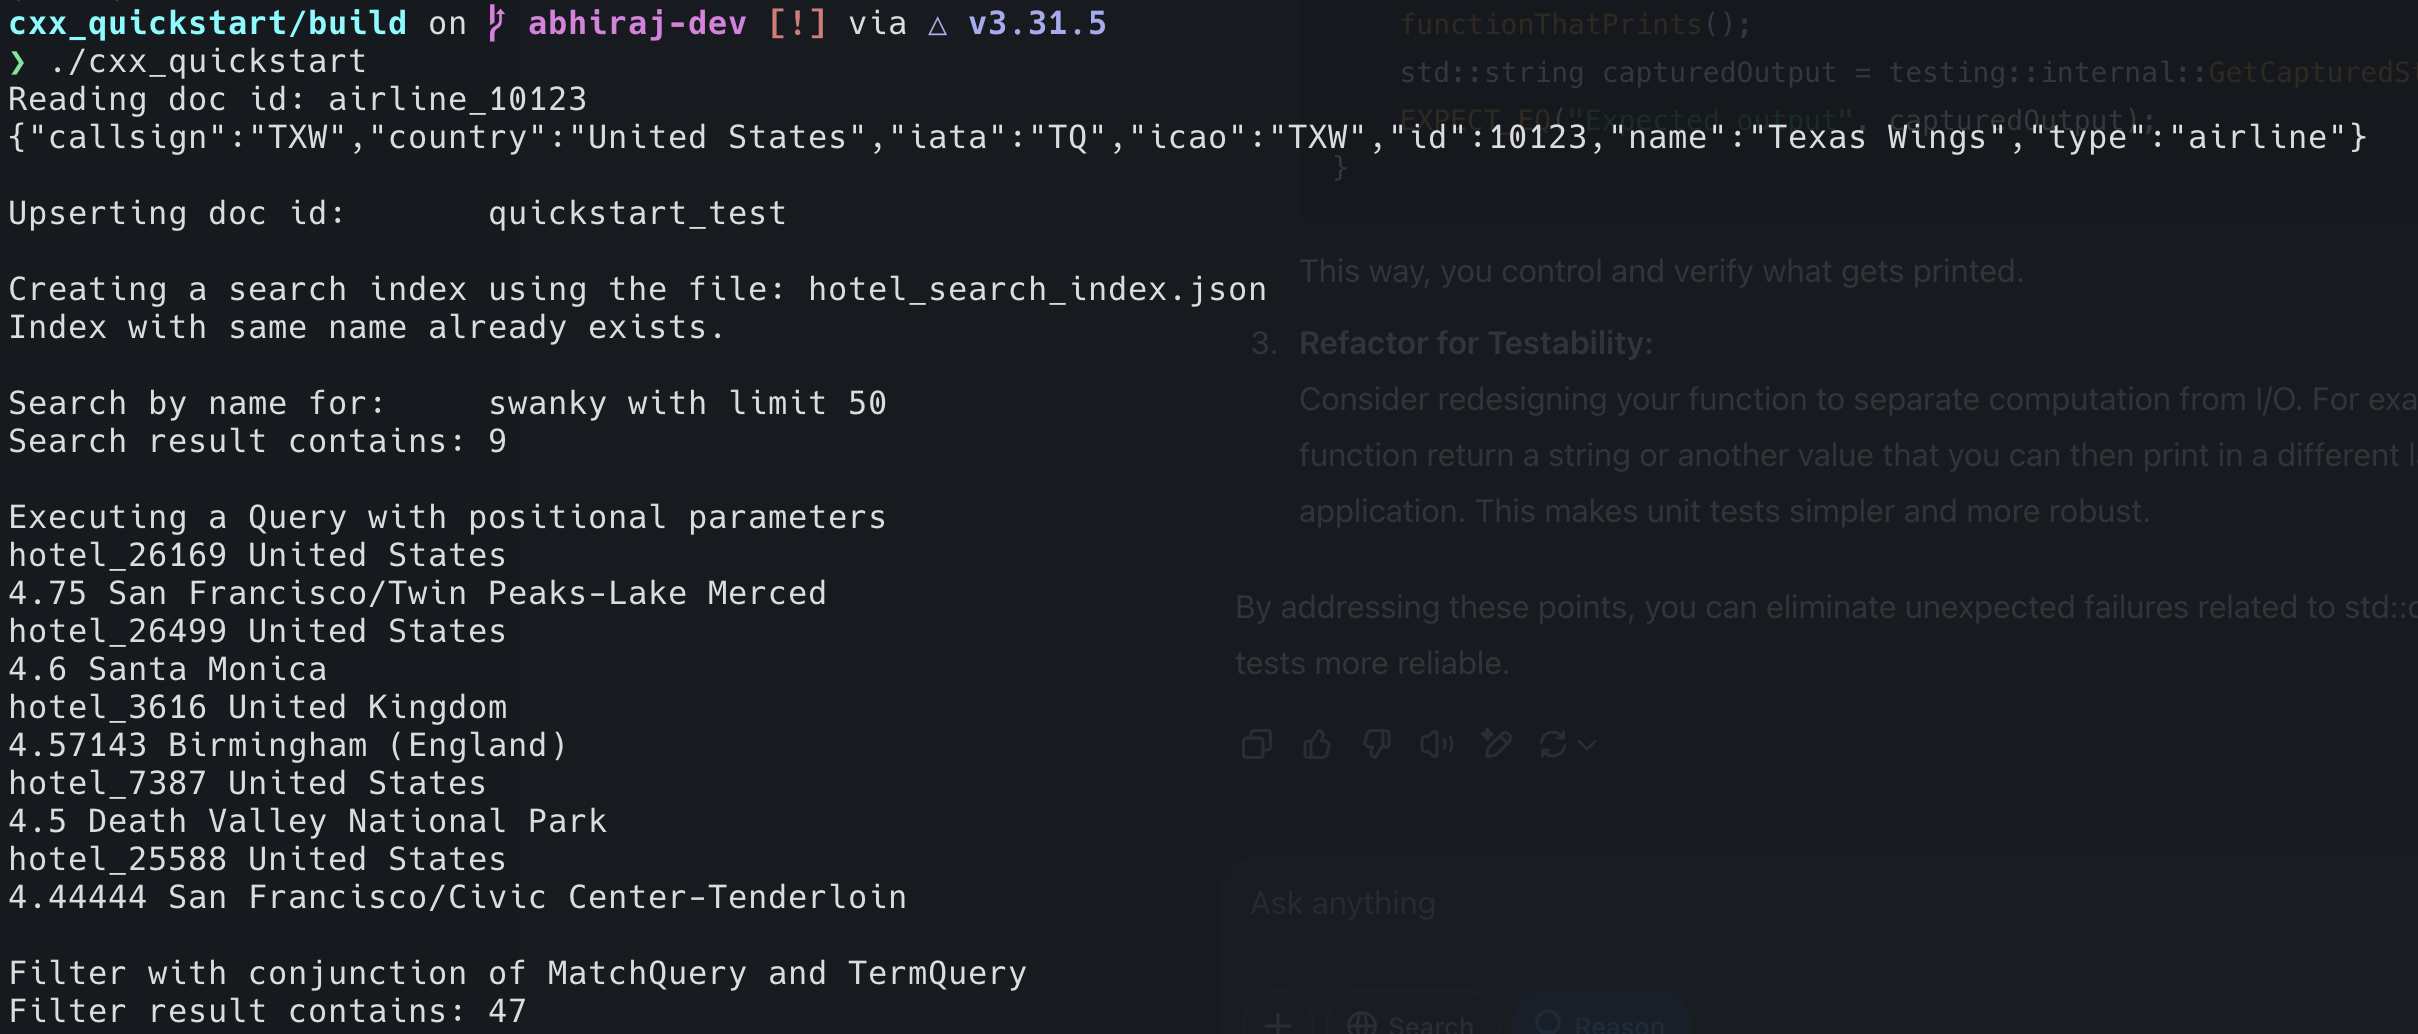
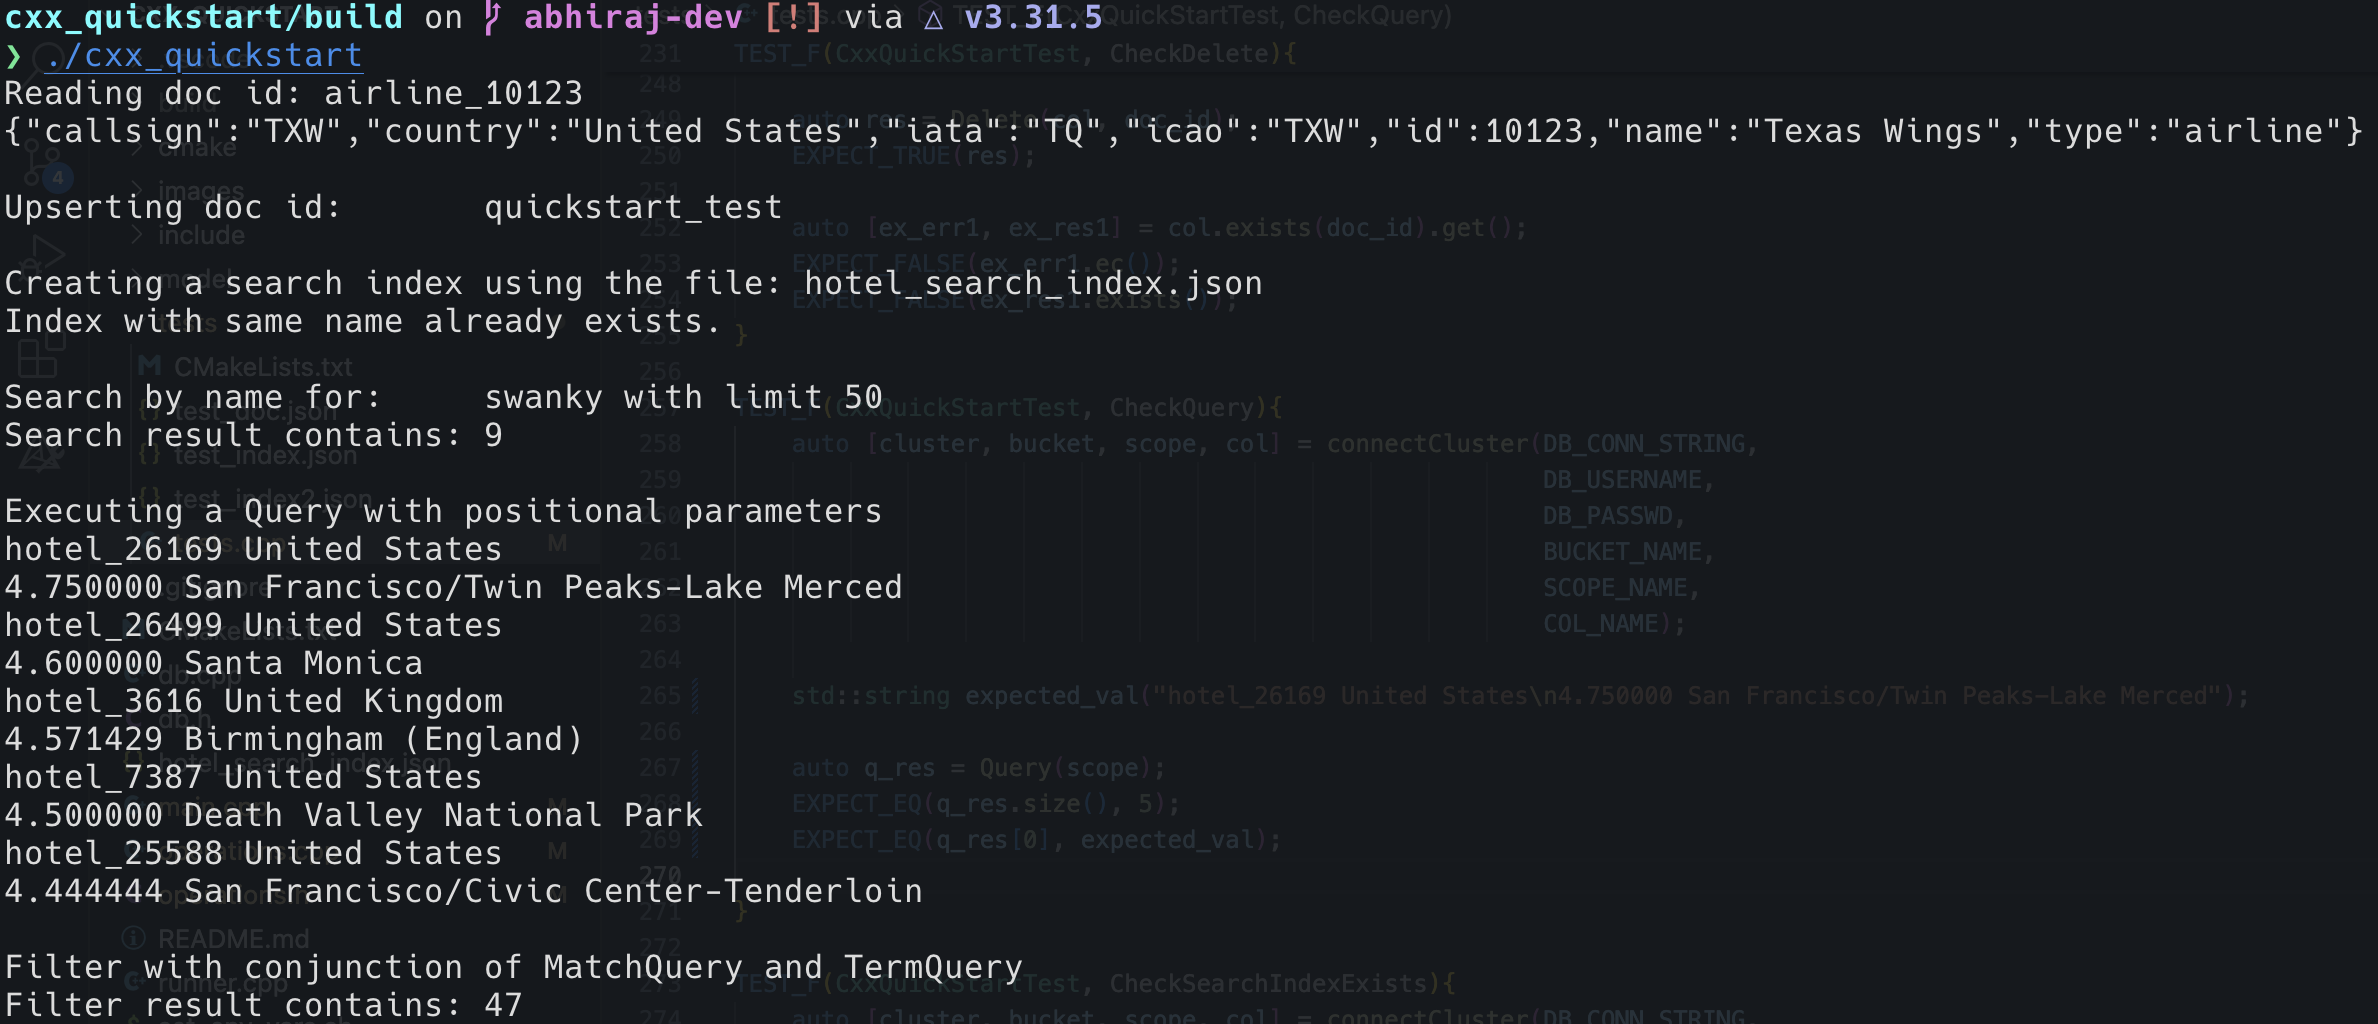
moved query string and reading to operations.cpp

diff --git a/operations.cpp b/operations.cpp
@@ -56,16 +56,29 @@ int Delete(couchbase::collection& col, const std::string& doc_id){
     return 1;
 }
 
-couchbase::query_result Query(couchbase::scope& scope, std::string& query, const couchbase::query_options& opts){
-    auto [q_err, q_res] = scope.query(query, opts).get();
+std::vector<std::string> Query(couchbase::scope& scope){
+    std::string query{ R"(        
+        SELECT META(h).id, h AS doc,
+               AVG(r.ratings.Overall) AS avg_rating
+        FROM hotel h
+        UNNEST h.reviews r
+        WHERE h.country IN $1 AND h.description LIKE "%cheap%"
+        GROUP BY META(h).id, h
+        ORDER BY avg_rating DESC
+        LIMIT 5;
+    )" };
+    
+    auto [q_err, q_res] = scope.query(query, couchbase::query_options{}.positional_parameters(std::vector<std::string>{"United States", "United Kingdom"})).get();
     if(q_err.ec()){
         std::cout << "Error executing query: " << q_err.message() << std::endl;
-        return couchbase::query_result{};
+        return std::vector<std::string>();
     }
-    
-
-    return q_res; 
-
+    std::vector<std::string> res;
+    auto v = q_res.rows_as<couchbase::codec::tao_json_serializer>();
+    for(auto x:v){
+        res.push_back(x["id"].as<std::string>() + " " + x["doc"]["country"].as<std::string>() + "\n" + std::to_string(x["avg_rating"].as<double>()) + " " + x["doc"]["title"].as<std::string>());
+    }
+    return res;
 }
 
 bool searchIndexExists(couchbase::scope_search_index_manager& sc_manager, const std::string& index_name){

diff --git a/main.cpp b/main.cpp
@@ -5,16 +5,7 @@ int main(){
     //Important to get all the vars since if it goes out of scope, it won't work.
     auto [cluster, bucket, scope, col] = InitCluster();
 
-    std::string query{ R"(        
-        SELECT META(h).id, h AS doc,
-               AVG(r.ratings.Overall) AS avg_rating
-        FROM hotel h
-        UNNEST h.reviews r
-        WHERE h.country IN $1 AND h.description LIKE "%cheap%"
-        GROUP BY META(h).id, h
-        ORDER BY avg_rating DESC
-        LIMIT 5;
-    )" };
+    
     
     
     // Reading a document
@@ -41,10 +32,9 @@ int main(){
     
     //Executing a query with positional Parameters
     std::cout << "Executing a Query with positional parameters" << std::endl;
-    auto query_res = Query(scope, query, couchbase::query_options{}.positional_parameters(std::vector<std::string>{"United States", "United Kingdom"}));
-    for (auto& row : query_res.rows_as()) {
-        std::cout  << row["id"].as<std::string>() << " " << row["doc"]["country"].as<std::string>() << std::endl;
-        std::cout << row["avg_rating"].as<double>() << " " << row["doc"]["title"].as<std::string>() <<  std::endl;
+    std::vector<std::string> query_res = Query(scope);
+    for (auto& row : query_res) {
+        std::cout << row << std::endl;
     }
     std::cout << std::endl;
     

diff --git a/tests/tests.cpp b/tests/tests.cpp
@@ -262,24 +262,11 @@ TEST_F(CxxQuickStartTest, CheckQuery){
                                                         SCOPE_NAME, 
                                                         COL_NAME);
 
-    std::string expected_json{R"({
-        "airline": {
-            "id": 18241,
-            "type": "airline",
-            "name": "Royal Airways",
-            "iata": "KG",
-            "icao": "RAW",
-            "callsign": "RAW",
-            "country": "United States"
-        }
-    })"};
+    std::string expected_val("hotel_26169 United States\n4.750000 San Francisco/Twin Peaks-Lake Merced");
 
-    auto v = tao::json::from_string(expected_json);
-    std::string query = {"SELECT * FROM `travel-sample`.inventory.airline WHERE name='Royal Airways' LIMIT 10"};
-    auto q_res = Query(scope, query);
-    auto rows = q_res.rows_as<couchbase::codec::tao_json_serializer>();
-    EXPECT_EQ(rows.size(), 1);
-    EXPECT_EQ(rows[0], v);
+    auto q_res = Query(scope);
+    EXPECT_EQ(q_res.size(), 5);
+    EXPECT_EQ(q_res[0], expected_val);
 
 }
 

diff --git a/operations.h b/operations.h
@@ -20,7 +20,7 @@ tao::json::value Read(couchbase::collection& col, const std::string& doc_id);
 int Delete(couchbase::collection& col, const std::string& doc_id);
 
 // Query
-couchbase::query_result Query(couchbase::scope& scope, std::string& query, const couchbase::query_options& opts = couchbase::query_options{});
+std::vector<std::string> Query(couchbase::scope& scope);
 
 // Search Index
 bool searchIndexExists(couchbase::scope_search_index_manager& sc_manager, const std::string& index_name);
